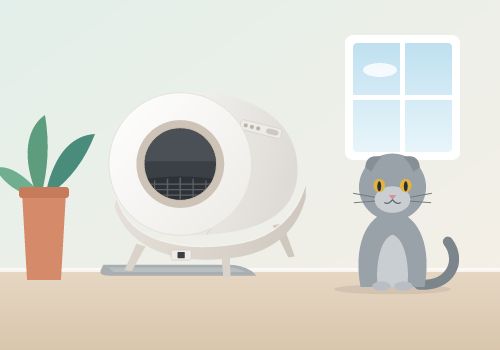
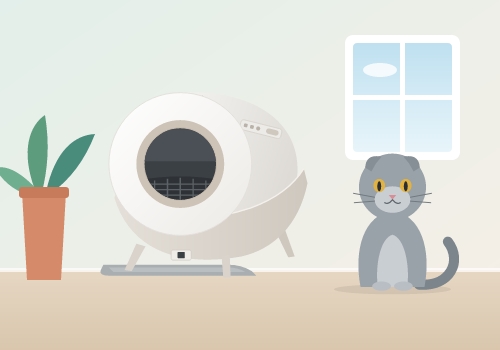
Seat the drum in its cradle, skip feeders and fountains, document product lines
The litter box illustration now shows the drum resting in the cradle. Pairing leaves out devices that are clearly feeders or fountains. README lists the One and Open product lines and their support status, with issue templates for bug reports and new devices.

Changed region(s): [[0.33, 0.4857, 0.63, 0.7143]]

diff --git a/drivers/litterbox/driver.js b/drivers/litterbox/driver.js
@@ -3,6 +3,18 @@
 const Homey = require('homey');
 const { registerLoginHandlers } = require('../../lib/pairing');
 
+/**
+ * False only for devices whose name clearly says they are a feeder or a
+ * fountain. The listing format of other device types is not known yet, so
+ * anything unclear is offered rather than risk hiding the user's litter box.
+ */
+function isLitterBox(device) {
+  const name = [device.device_name, device.product_name, device.device_type, device.name]
+    .filter(Boolean).join(' ').toLowerCase();
+  if (/litter|toilet/.test(name)) return true;
+  return !/feeder|fountain|water|dispenser|feed/.test(name);
+}
+
 class LitterBoxDriver extends Homey.Driver {
 
   async onInit() {
@@ -15,12 +27,17 @@ class LitterBoxDriver extends Homey.Driver {
   async onPair(session) {
     registerLoginHandlers(this.homey, session);
 
-    // The device type field of the NOTTY API is not mapped yet, so every
-    // device on the account is offered; the user picks the litter box.
+    // Feeders and fountains (Serve, Stream, Chow, Flow) are not supported yet
+    // and are left out; the full listing is logged so support can be added.
+    // On the Revoloo One, get_info reports device_name "Cat Automatic Litter Box".
     session.setHandler('list_devices', async () => {
       const devices = await this.homey.app.getApi().getDevices();
       this.log('Devices on account:', JSON.stringify(devices));
-      return devices.map((d) => {
+      return devices.filter((d) => {
+        if (isLitterBox(d)) return true;
+        this.log('Skipping device that is not a litter box:', d.device_name || d.product_name || d.name);
+        return false;
+      }).map((d) => {
         const id = String(d.user_device_id !== undefined ? d.user_device_id : d.id);
         return {
           name: d.alias || d.name || d.product_name || `Revoloo One ${id}`,

diff --git a/README.md b/README.md
@@ -1,13 +1,32 @@
 # Revoloo for Homey
 
-Homey app for [Revoloo](https://revoloo.nl/) smart pet products. It currently
-supports the **Revoloo One** litter box. The Revoloo Serve (feeder) and Revoloo
-Stream (water fountain) are not supported yet.
+Homey app for [Revoloo](https://revoloo.nl/) smart pet products.
 
 Revoloo devices are set up and managed with the *NOTTY Smart Pet* app. This
 Homey app reads from and sends commands to the same cloud
-(`api.nottycat.com`). Other litter boxes on the NOTTY platform may work too,
-but that is untested.
+(`api.nottycat.com`).
+
+## Supported devices
+
+Revoloo has two product lines, each with a litter box, a feeder and a water
+fountain:
+
+| Product | Line | Type | Status |
+|---|---|---|---|
+| Revoloo One | One | Self-cleaning litter box | ✅ Supported, tested |
+| Revoloo Open | Open | Open litter box | ❓ May work, untested |
+| Revoloo Serve | One | Feeder | ❌ Not yet |
+| Revoloo Chow | Open | Feeder | ❌ Not yet |
+| Revoloo Stream | One | Water fountain | ❌ Not yet |
+| Revoloo Flow | Open | Water fountain | ❌ Not yet |
+
+Feeders and fountains are left out when you add a litter box. Other litter
+boxes on the NOTTY platform may work too, but that is untested.
+
+**Do you own one of the other devices?** Support can only be added with data
+from a real device. Please
+[open a "New device" issue](https://github.com/MarcoDigital/homey-revoloo/issues/new?template=new-device.md)
+with the logs described there.
 
 > Community app, not affiliated with Revoloo or NOTTY. The cloud API is
 > undocumented and may change at any time.
@@ -120,6 +139,7 @@ assets/                 App icon and images
 assets/source/          SVG sources of the images and render.js
 README.txt              App Store description (Homey shows this text, not README.md)
 .homeychangelog.json    Changelog shown in the Homey App Store
+.github/ISSUE_TEMPLATE/ Templates for bug reports and new device requests
 ```
 
 Run with live logs:

diff --git a/.github/ISSUE_TEMPLATE/new-device.md b/.github/ISSUE_TEMPLATE/new-device.md
@@ -1,0 +1,32 @@
+---
+name: New device
+about: Help add support for a Revoloo device (Open, Serve, Chow, Stream, Flow)
+title: "Support for Revoloo <device>"
+labels: new device
+---
+
+**Device:** <!-- e.g. Revoloo Serve -->
+
+**Does it show up when you add a "Revoloo One litter box" in Homey?** <!-- yes / no -->
+
+### Logs
+
+Support can only be added with data from a real device. To collect it:
+
+1. Install Node.js, then run `npm install -g homey` and `homey login`.
+2. Clone this repository and run `homey app run --remote` in its folder.
+3. In the Homey app, start adding a **Revoloo One litter box** and log in. You
+   don't have to finish adding a device.
+4. Copy the lines with `Devices on account:` and, if you added a device,
+   `get_info response:` from the terminal and paste them below.
+5. Stop with Ctrl+C. Note: this uninstalls the development app and removes its
+   devices; reinstall with `homey app install` afterwards.
+
+Before pasting, replace personal data such as your email address with `***`.
+
+```
+paste logs here
+```
+
+**What does the NOTTY Smart Pet app show for this device?**
+<!-- e.g. food level, portions, water level, filter days -->

diff --git a/.github/ISSUE_TEMPLATE/bug-report.md b/.github/ISSUE_TEMPLATE/bug-report.md
@@ -1,0 +1,22 @@
+---
+name: Bug report
+about: Something does not work as expected
+title: ""
+labels: bug
+---
+
+**What happened?**
+
+**What did you expect?**
+
+**Device:** <!-- e.g. Revoloo One -->
+**App version:** <!-- Homey app > Apps > Revoloo -->
+**Homey:** <!-- Homey Pro (2023), Homey Self-Hosted Server, ... and its version -->
+
+**Logs (if you can)**
+Run `homey app run --remote` in the repository folder and paste the relevant
+lines. Replace personal data such as your email address with `***`.
+
+```
+paste logs here
+```
